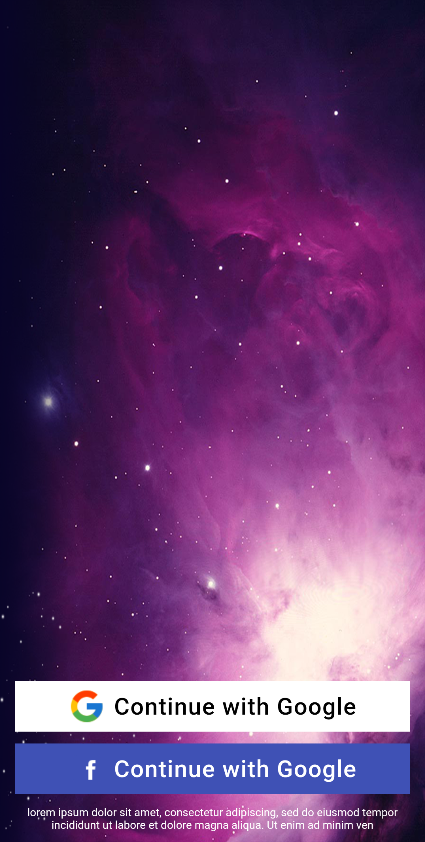
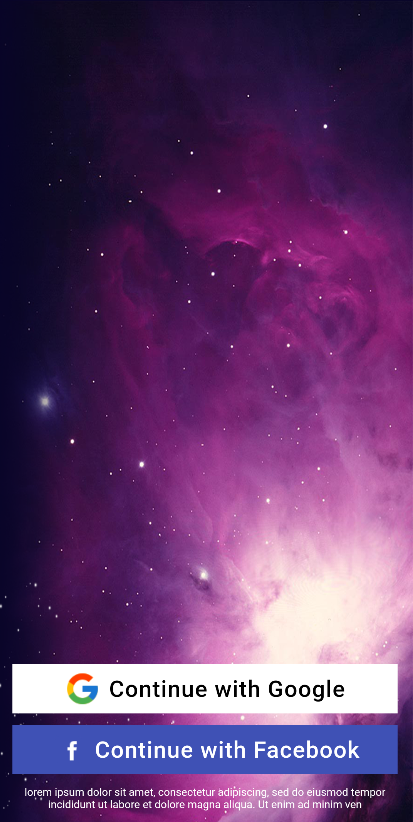
feat: screenshot practice_18 correction

diff --git a/lib/screens/practice_18.dart b/lib/screens/practice_18.dart
@@ -61,7 +61,7 @@ class Practice18 extends StatelessWidget {
                         width: 10,
                       ),
                       const Text(
-                        'Continue with Google',
+                        'Continue with Facebook',
                         style: TextStyle(
                           fontSize: 30,
                           fontWeight: FontWeight.w500,

diff --git a/lib/main.dart b/lib/main.dart
@@ -17,7 +17,7 @@ class MyApp extends StatelessWidget {
       theme: ThemeData(
         primarySwatch: Colors.blue,
       ),
-      home: const SafeArea(child: Practice19()),
+      home: const SafeArea(child: Practice1()),
     );
   }
 }
